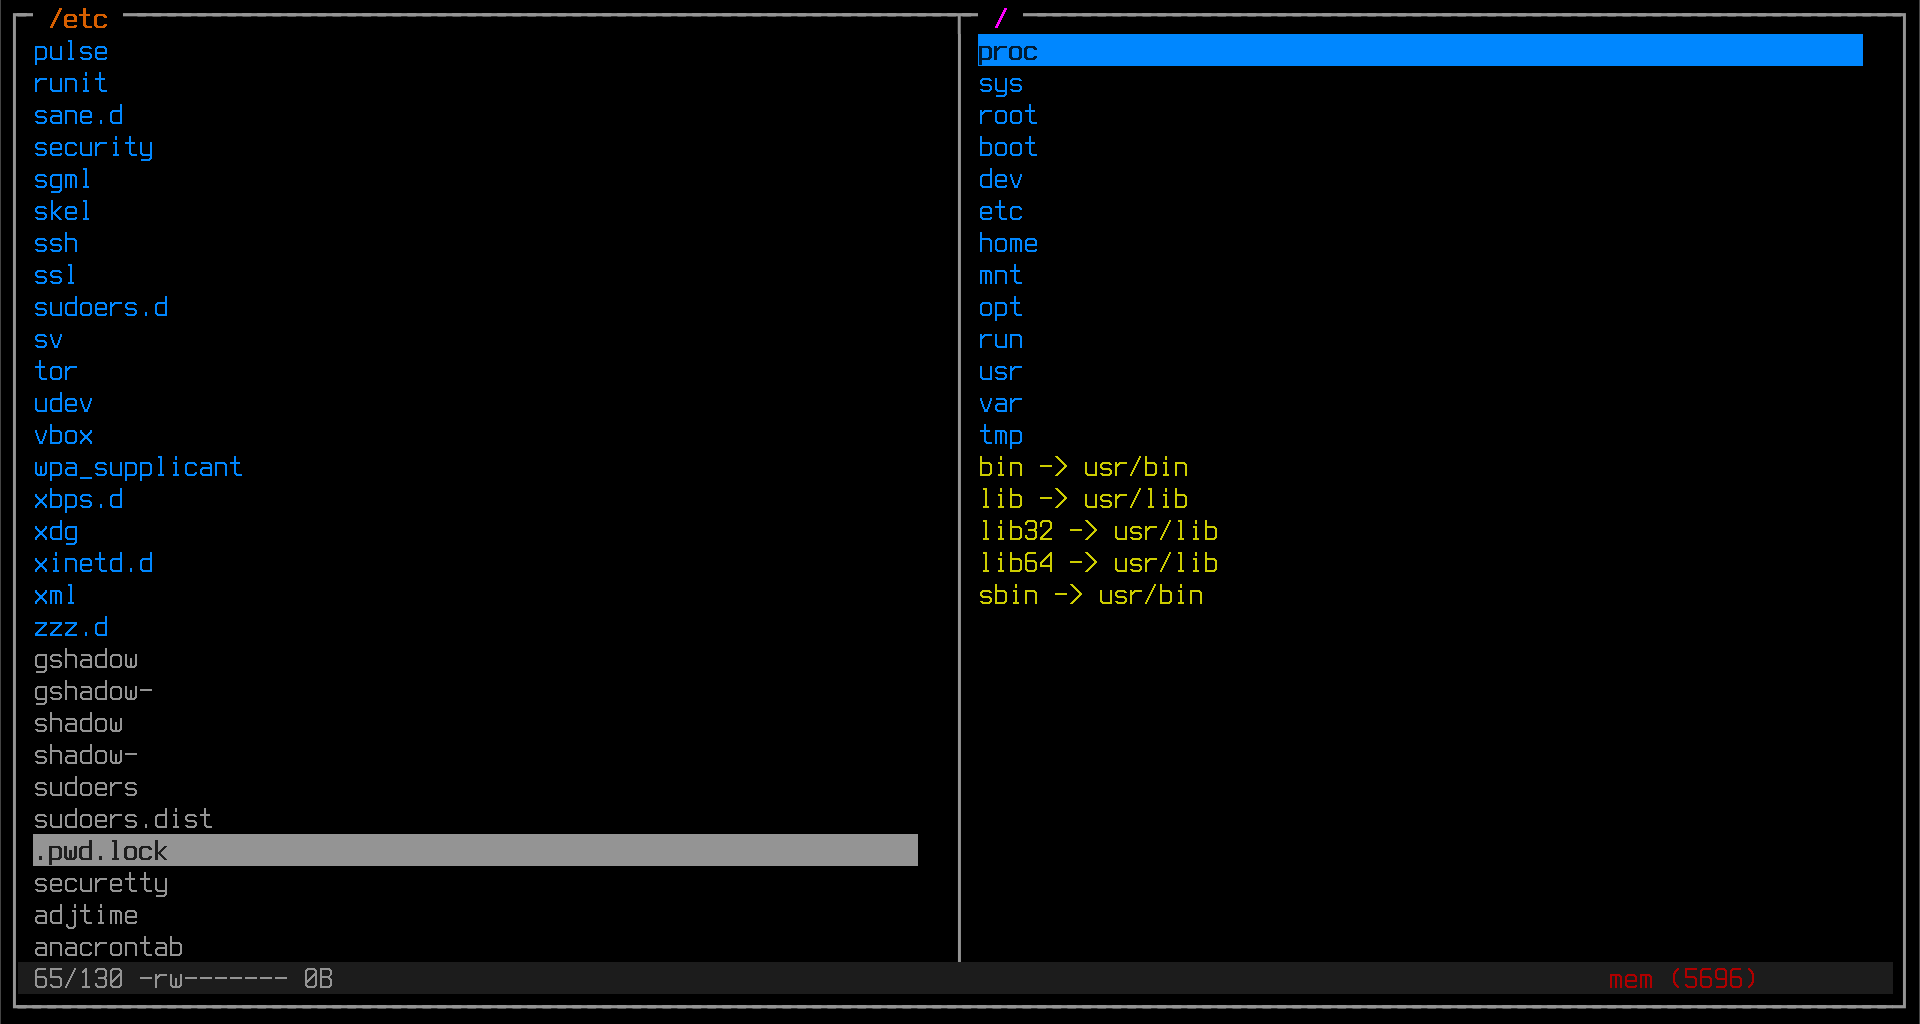
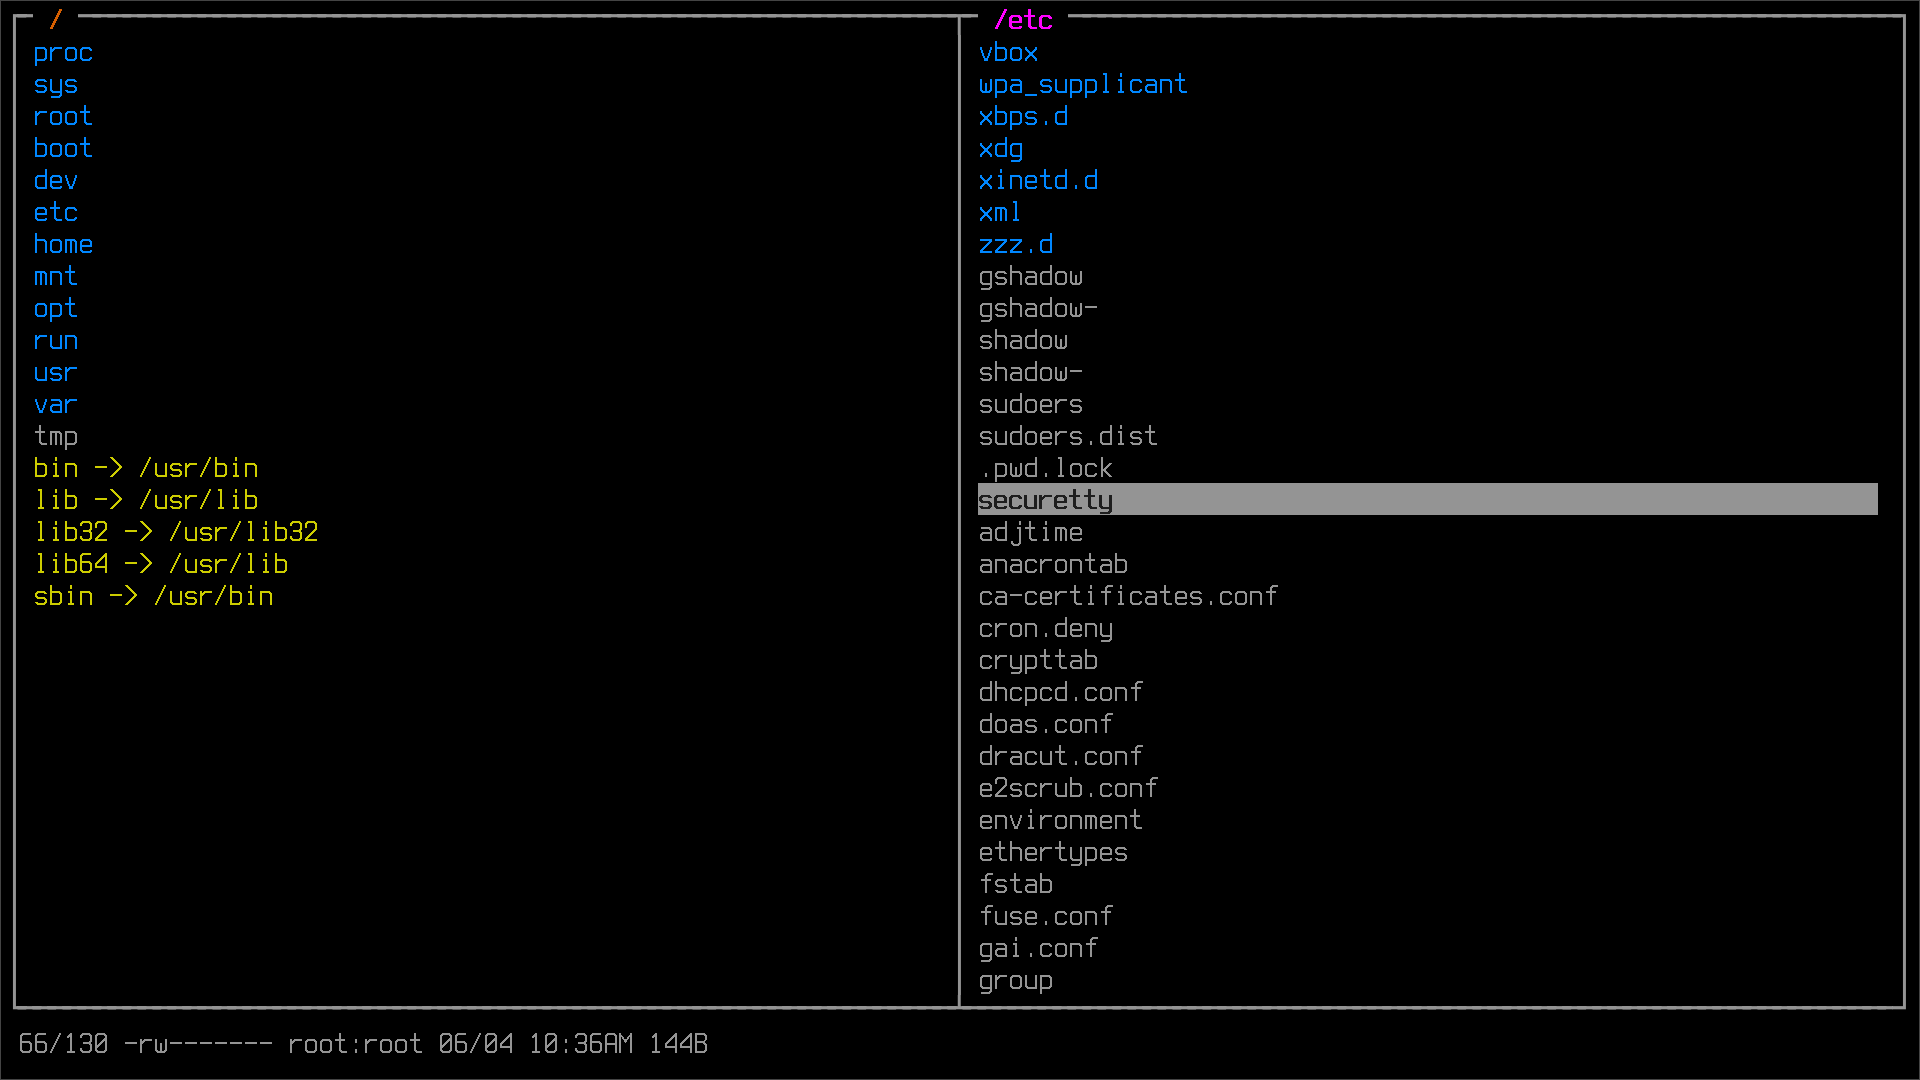
add sfm in software, update sfm img

Changed region(s): [[0.0, 0.0, 1.0, 1.0], [0.0, 0.0, 0.1562, 0.5625]]

diff --git a/software.html b/software.html
@@ -27,8 +27,6 @@
 				4.4BSD-based UNIX-like operating system.</li>
 				<li><a href="https://voidlinux.org/">void</a>,
 				general purpose operating system, based on the monolithic Linux® kernel.</li>
-				<li><a href="https://archlinux.org">arch</a>,
-				lightweight and flexible Linux® distribution that tries to Keep It Simple.</li>
 				<br>
 				<li><a href="https://tools.suckless.org/dmenu">dmenu</a>,
 				dynamic menu for X.</li>
@@ -46,6 +44,8 @@
 				RSS/Atom feed reader for the text console.</li>
 				<li><a href="https://tools.suckless.org/sent">sent</a>,
 				simple plaintext presentation tool.</li>
+				<li><a href="https://github.com/afify/sfm">sfm</a>,
+				simple file manager.</li>
 				<li><a href="https://tools.suckless.org/slock">slock</a>,
 				simple X display locker.</li>
 				<li><a href="https://st.suckless.org/">st</a>,
@@ -56,8 +56,6 @@
 				simple X Image Viewer.</li>
 				<li><a href="https://transmissionbt.com/">transmission</a>,
 				cross-platform BitTorrent client.</li>
-				<li><a href="https://vifm.info/">vifm</a>,
-				file manager with curses interface.</li>
 				<li><a href="https://www.vim.org/">vim</a>,
 				highly configurable text editor.</li>
 				<li><a href="https://github.com/jcs/xbanish">xbanish</a>,
